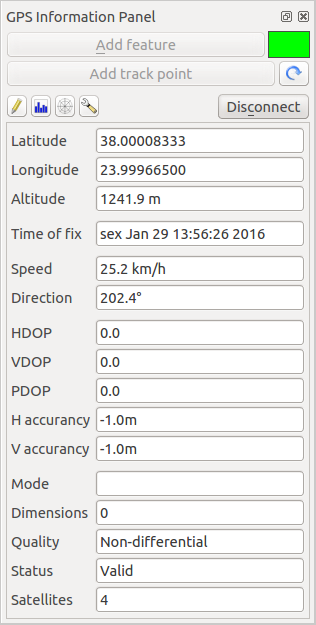
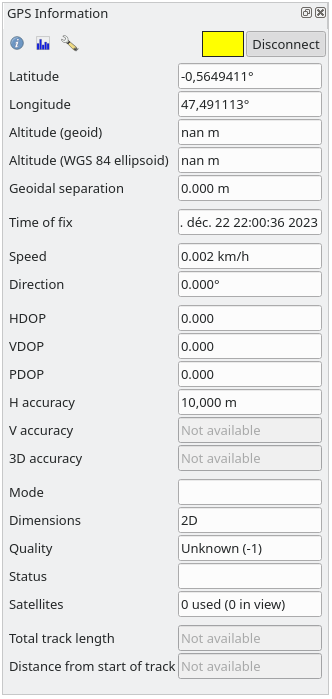
Update the GPS Information panel

Changed region(s): [[0.0, 0.0, 1.0, 1.0]]

diff --git a/docs/user_manual/working_with_gps/live_GPS_tracking.rst b/docs/user_manual/working_with_gps/live_GPS_tracking.rst
@@ -15,8 +15,6 @@ Some :ref:`device configuration <gps_options>` may be needed before
 connecting QGIS and the GPS receiver.
 
 
-
-
 .. _gps_toolbar:
 
 GPS toolbar
@@ -53,11 +51,8 @@ Once a device is detected by QGIS, you will be able to interact with it:
   * |capturePoint| :sup:`Create a new point feature at current GPS location`
   * |reset| :sup:`Reset track`
 
-* |metadata| :sup:`Show GPS information`: opens the :guilabel:`GPS Information` panel
-
-  .. todo: replace guilabel with a ref to the section when available, i.e
-     * |metadata| :sup:`Show GPS information`: opens the :ref:`GPS Information``
-     <gps_information_panel>` panel
+* |metadata| :sup:`Show GPS information`: opens the :ref:`GPS Information
+  <gps_information_panel>` panel
 
 * a display box for quick access to some GPS information components you may need:
 
@@ -121,6 +116,83 @@ Once a device is detected by QGIS, you will be able to interact with it:
   a live status bar message displays the distance and bearing from the cursor to the GPS position.
   Project distance and bearing settings are respected in this display.
   On a touch screen device, use a tap-and-hold event to trigger the live status bar message.
+
+
+.. _gps_information_panel:
+
+GPS Information Panel
+---------------------
+
+For full monitoring of a live GPS tracking in QGIS, you may need to enable
+the :guilabel:`GPS Information Panel`
+(:menuselection:`View --> Panels -->` or press :kbd:`Ctrl+0`).
+
+In the top right corner of the :guilabel:`GPS Information Panel`,
+you press :guilabel:`Connect` to initiate connection between QGIS
+and a plugged-in GPS receiver, or :guilabel:`Disconnect` them.
+
+In the top left of the panel, following buttons are accessible:
+
+* |metadata| :sup:`Position`: live details on the GPS position and sensors
+* |gpsTrackBarChart| :sup:`Signal`: signal strength of satellite connections
+* |options| :sup:`Settings`: drop-down menu to :ref:`live tracking options <tracking_settings>`
+  you may need to modify during a session
+
+
+Position and additional attributes
+..................................
+
+In the |metadata| :sup:`Position` tab, if the GPS is receiving signals from satellites,
+you will see your position in latitude, longitude and altitude
+together with additional attributes.
+
+.. _figure_gps_position:
+
+.. figure:: img/gpstrack_main.png
+   :align: center
+
+   GPS tracking position and additional attributes
+
+
+* :guilabel:`Latitude`
+* :guilabel:`Longitude`
+* :guilabel:`Altitude (Geoid)`: Altitude/elevation above or below the mean sea level
+* :guilabel:`Altitude (WGS 84 ellipsoid)`: Altitude/elevation above or below
+  the WGS-84 Earth ellipsoid
+* :guilabel:`Geoidal separation`: Difference between the WGS-84 Earth ellipsoid
+  and mean sea level (geoid), ``-`` means mean sea level is below ellipsoid
+* :guilabel:`Time of fix`
+* :guilabel:`Speed`: Ground speed
+* :guilabel:`Direction`: Bearing measured in degrees clockwise from true north
+  to the direction of travel
+* :guilabel:`HDOP`: Horizontal dilution of precision
+* :guilabel:`VDOP`: Vertical dilution of precision
+* :guilabel:`PDOP`: Dilution of precision
+* :guilabel:`H accuracy`: Horizontal accuracy in meters
+* :guilabel:`V accuracy`: Vertical accuracy in meters
+* :guilabel:`3D accuracy`: 3D Root Mean Square (RMS) in meters
+* :guilabel:`Mode`: GPS receiver configuration 2D/3D mode, can be ``automatic`` or ``manual``
+* :guilabel:`Dimensions`: Position fix dimension, can be ``2D``, ``3D`` or ``No fix``
+* :guilabel:`Quality`: Positioning quality indicator
+* :guilabel:`Status`: Position fix status, can be ``Valid`` or ``Invalid``
+* :guilabel:`Satellites`: Count of satellites used in obtaining the fix
+* :guilabel:`Total track length`: Total distance of current GPS track
+* :guilabel:`Distance from start of track`: Direct distance from first vertex
+  in current GPS track to latest vertex
+
+
+Signal
+......
+
+With |gpsTrackBarChart| :sup:`Signal` tab, you can see the signal strength of the satellites
+you are receiving signals from.
+
+.. _figure_gps_strength:
+
+.. figure:: img/gpstrack_strength.png
+   :align: center
+
+   GPS tracking signal strength
 
 
 Connect to a Bluetooth GPS for live tracking
